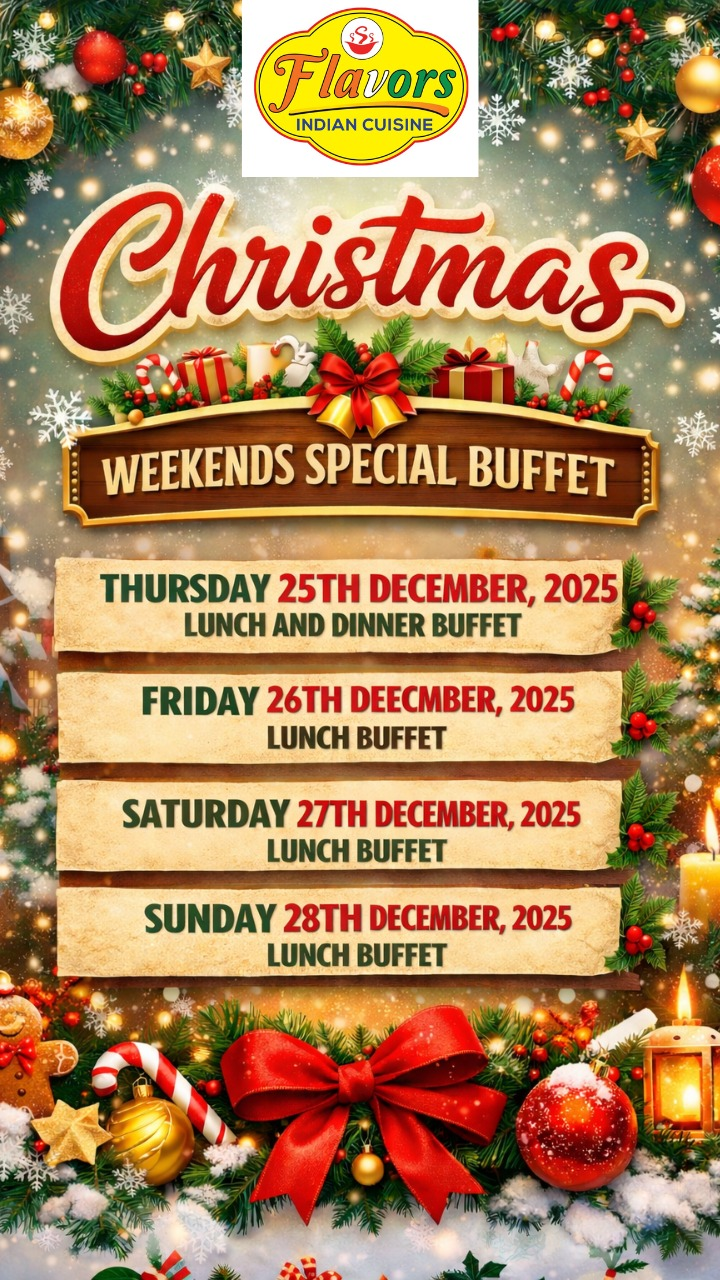
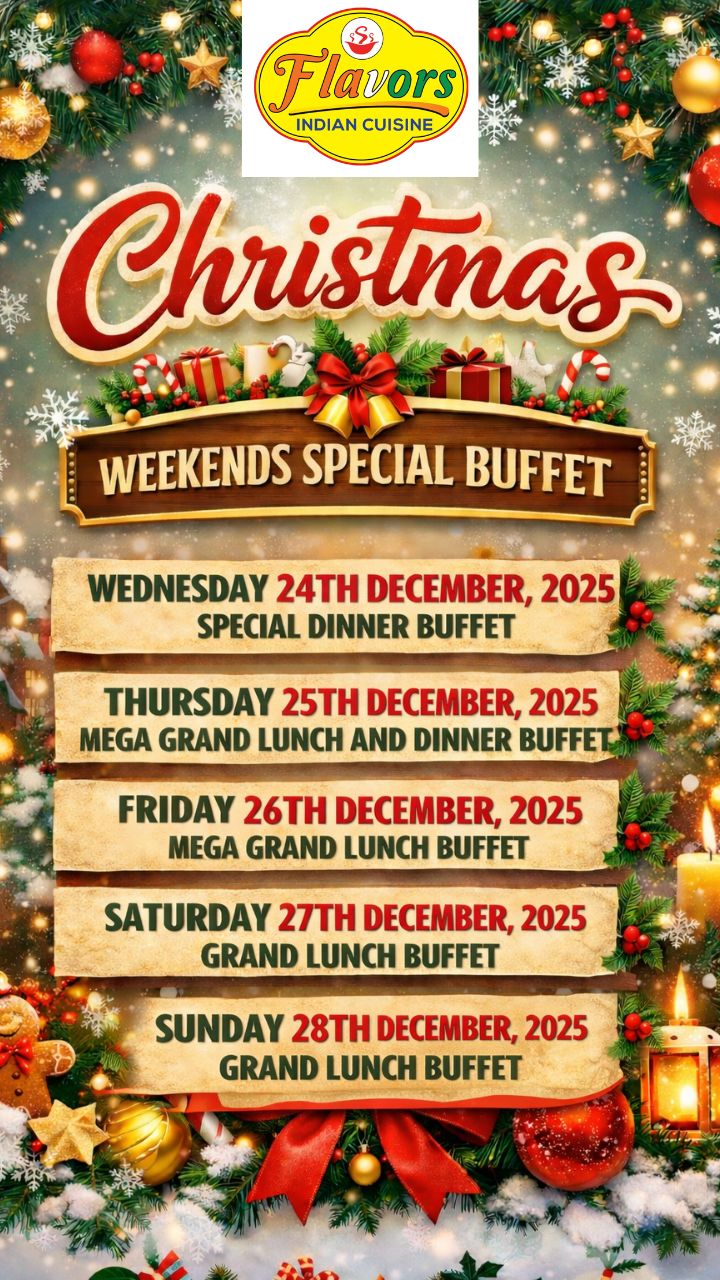
: updated Christmas buffet details — extend celebration to 5 days, add Christmas Eve menu

diff --git a/index.html b/index.html
@@ -16,9 +16,9 @@
           <p class="hero-subtitle">Festive Holiday Lunch Buffet with 68 Items</p>
 
           <div class="badge-row">
-            <span class="badge">4 Day Holiday Celebration</span>
-            <span class="badge">Thursday - Sunday</span>
-            <span class="badge">Dec 25 to Dec 28, 2025</span>
+            <span class="badge">5 Day Holiday Celebration</span>
+            <span class="badge">Wednesday - Sunday</span>
+            <span class="badge">Dec 24 to Dec 28, 2025</span>
             <span class="badge">11:30 AM - 3:30 PM</span>
           </div>
 
@@ -43,6 +43,7 @@
           <div class="day-nav-label">Jump to your day</div>
           <!-- Admin panel removed -->
           <nav class="day-nav" aria-label="Buffet day navigation">
+            <a href="#wed-menu">Wednesday</a>
             <a href="#thu-menu">Thursday</a>
             <a href="#fri-menu">Friday</a>
             <a href="#sat-menu">Saturday</a>
@@ -51,6 +52,23 @@
         </div>
 
         <!-- THURSDAY -->
+        <!-- WEDNESDAY (Christmas Eve) -->
+        <article id="wed-menu" class="day-section">
+          <div class="day-card" data-highlights="Christmas Eve dinner buffet: festive buffet dinner service on Dec 24, 5:30 PM - 10:00 PM. Reservations recommended; limited seating.">
+            <span class="day-chip">Day 0</span>
+            <h2>Wednesday — Christmas Eve Dinner</h2>
+            <p class="day-highlight"></p>
+
+            <div class="time-note">Dinner: 5:30 PM - 10:00 PM (Dec 24, 2025)</div>
+
+            <p class="menu-note">We will be serving a festive buffet dinner on Christmas Eve (Dec 24) from 5:30 PM to 10:00 PM. Reservations are recommended due to limited seating. Call to reserve your table.</p>
+
+            <div class="btn-row">
+              <a href="tel:+14792541035" class="btn">Reserve For Wednesday</a>
+              <a href="https://maps.app.goo.gl/83KPQvwDUzYMJSfUA" class="btn secondary" target="_blank" rel="noopener">Open In Google Maps</a>
+            </div>
+          </div>
+        </article>
         <article id="thu-menu" class="day-section">
           <div class="day-card">
             <span class="day-chip">Day 1</span>

diff --git a/js/main.js b/js/main.js
@@ -3,11 +3,16 @@ document.addEventListener('DOMContentLoaded', function () {
   document.querySelectorAll('.day-card').forEach(function (card) {
     var img = card.querySelector('.menu-image img');
     var highlightEl = card.querySelector('.day-highlight');
-    if (!img || !highlightEl) return;
-    var highlights = (img.dataset && img.dataset.highlights) ? img.dataset.highlights.trim() : '';
+    if (!highlightEl) return;
 
-    if (!highlights && img.alt) {
-      highlights = img.alt;
+    // Prefer data-highlights on the card (useful when there's no image), then image dataset, then image alt
+    var highlights = '';
+    if (card.dataset && card.dataset.highlights) {
+      highlights = card.dataset.highlights.trim();
+    } else if (img && img.dataset && img.dataset.highlights) {
+      highlights = img.dataset.highlights.trim();
+    } else if (img && img.alt) {
+      highlights = img.alt.trim();
     }
 
     if (!highlights) {
